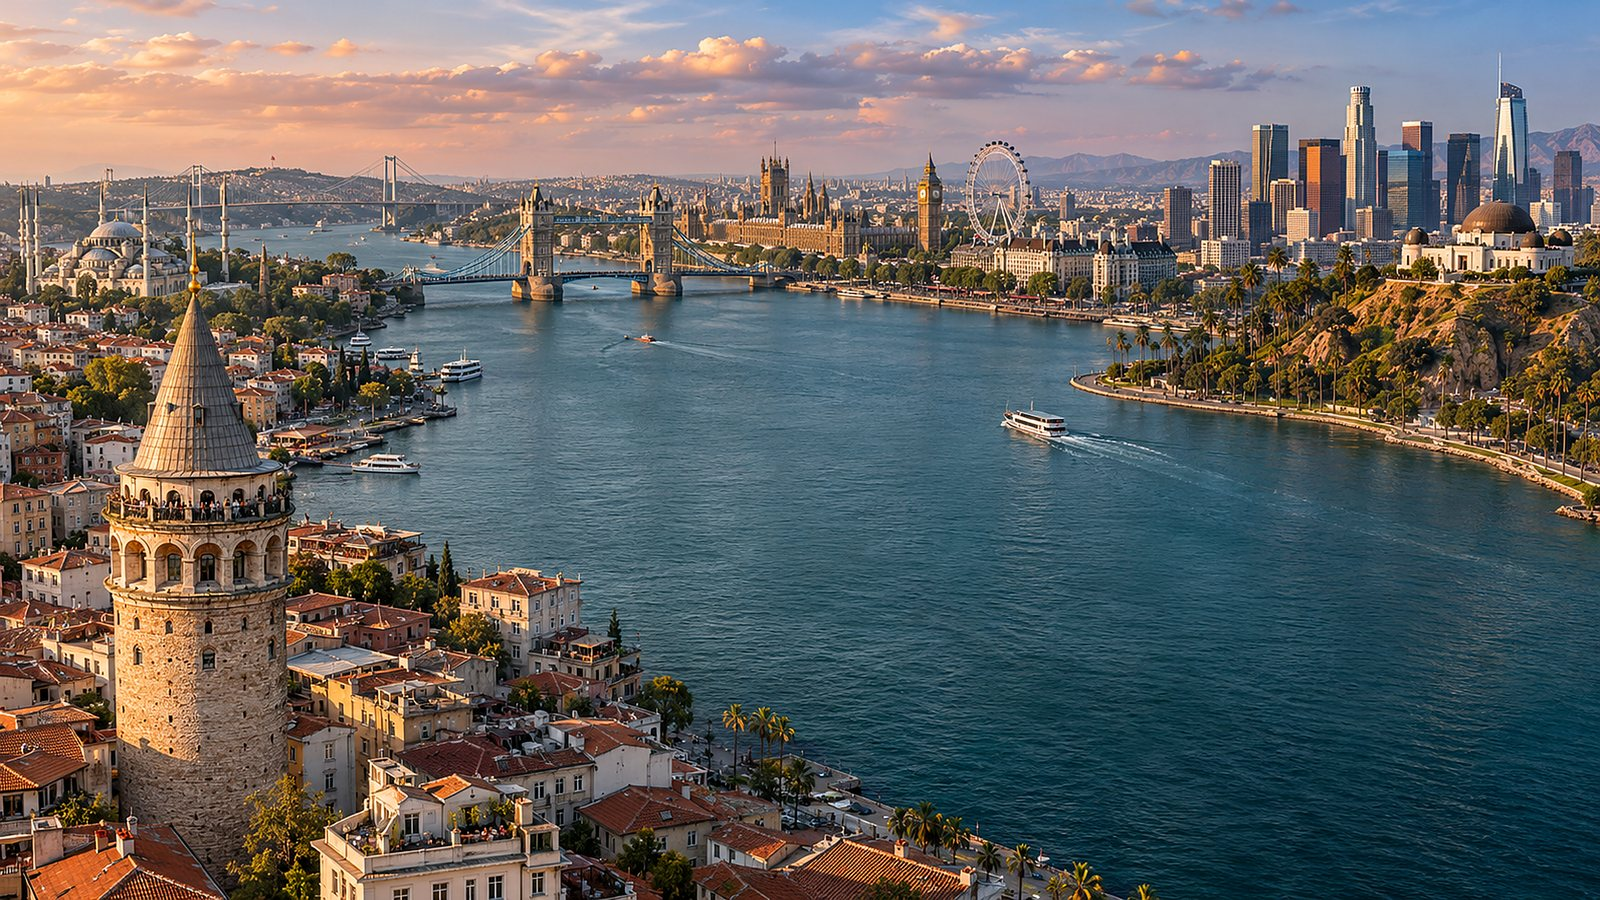
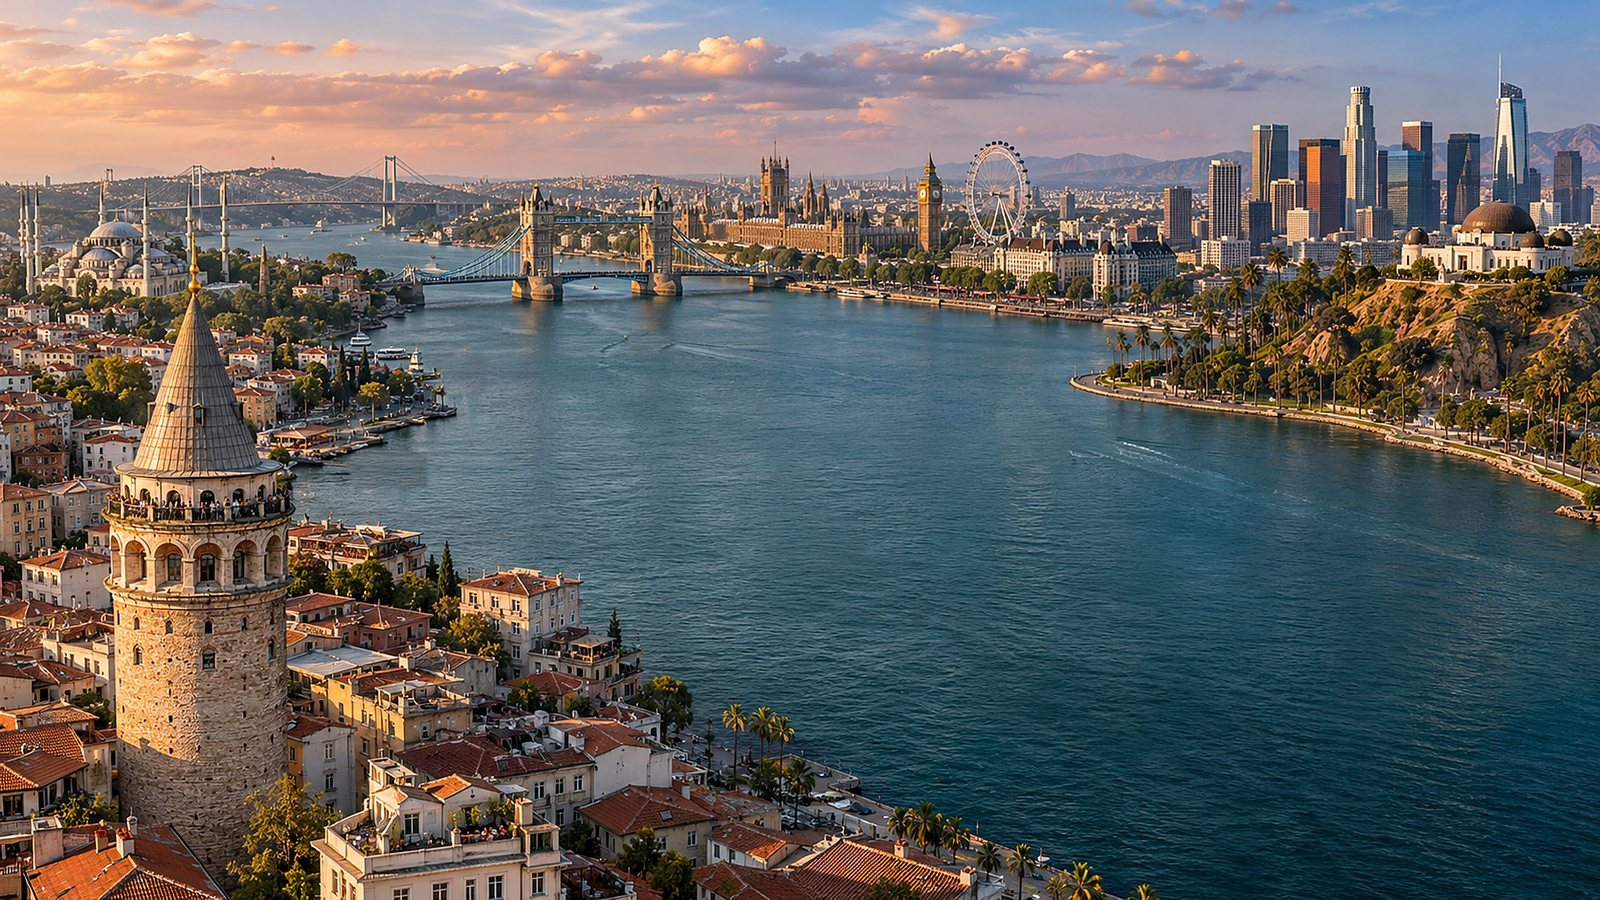
Ferries cruise slowly along the river (cut out with reflections, water filled in beneath)
Claude-Session: https://claude.ai/code/session_01WS1Ggxd3pVnHHNUyePA6WY

diff --git a/assets/home.js b/assets/home.js
@@ -135,6 +135,28 @@
     }
   ];
 
+  // ferries cut out of the photo; they cruise slowly along the river and loop
+  var BOATS = [{"src": "/assets/lm/boat-ferry.webp", "box": [1870, 740, 220, 139], "dx": -620, "dy": -150, "k": 0.62, "period": 75, "offset": 0.12}, {"src": "/assets/lm/boat-speed.webp", "box": [1173, 620, 94, 49], "dx": -300, "dy": -30, "k": 0.85, "period": 32, "offset": 0.45}, {"src": "/assets/lm/boat-ferry2.webp", "box": [828, 644, 91, 103], "dx": 480, "dy": 60, "k": 1.12, "period": 85, "offset": 0.25}, {"src": "/assets/lm/boat-ferry3.webp", "box": [656, 844, 151, 79], "dx": 520, "dy": 40, "k": 1.1, "period": 95, "offset": 0.6}];
+  var boatLayer = document.getElementById("boats");
+  function buildBoats() {
+    BOATS.forEach(function (b) { var i = new Image(); i.className = "boat"; i.alt = ""; i.src = b.src; boatLayer.appendChild(i); b.el = i; });
+    if (reduce) { BOATS.forEach(function (b) { b.p = 0; }); moveBoats(0); return; }
+    (function tick(now) { requestAnimationFrame(tick); if (!document.hidden) moveBoats(now / 1000); })(performance.now());
+  }
+  function moveBoats(t) {
+    var c = cover();
+    BOATS.forEach(function (b, n) {
+      var p = reduce ? 0 : ((t / b.period + b.offset) % 1);
+      var fade = reduce ? 1 : Math.min(1, p / 0.08, (1 - p) / 0.08);
+      var bob = reduce ? 0 : Math.sin(t * 1.3 + n * 2) * 0.6;
+      var x = c.ox + (b.box[0] + b.dx * p) * c.s, y = c.oy + (b.box[1] + b.dy * p) * c.s + bob;
+      var k = 1 + (b.k - 1) * p, st = b.el.style;
+      st.width = b.box[2] * c.s + "px"; st.height = b.box[3] * c.s + "px";
+      st.transform = "translate(" + x + "px," + y + "px) scale(" + k + ")";
+      st.opacity = fade;
+    });
+  }
+
   var layer = document.getElementById("landmarks");
   function cover() {
     var W = hero.clientWidth, H = hero.clientHeight, s = Math.max(W / IMG.w, H / IMG.h);
@@ -346,6 +368,7 @@
     }).catch(function () {});
   }
 
+  buildBoats();
   build();
   intro();
   river();

diff --git a/index.html b/index.html
@@ -125,6 +125,10 @@ a:focus-visible { outline: 2px solid var(--gold); outline-offset: 3px; }
 .bridge.open .tb-leaf-l { transform: rotate(-78deg); filter: drop-shadow(-3px 8px 6px rgba(0,0,0,0.45)); }
 .bridge.open .tb-leaf-r { transform: rotate(78deg); filter: drop-shadow(3px 8px 6px rgba(0,0,0,0.45)); }
 
+/* ferries */
+.boats { position: absolute; inset: 0; z-index: -2; pointer-events: none; overflow: hidden; }
+.boat { position: absolute; left: 0; top: 0; transform-origin: 50% 70%; will-change: transform, opacity; }
+
 /* camera dive into Galata */
 .scene { position: absolute; inset: 0; z-index: -1; will-change: transform; }
 .scene.through { transition: filter 0.6s ease, opacity 0.6s ease; filter: blur(6px) brightness(0.6); }
@@ -209,6 +213,7 @@ footer { font-size: 13px; color: var(--muted); }
   <img class="city" src="/assets/city.jpg" srcset="/assets/city-1600.jpg 1600w, /assets/city.jpg 3000w" sizes="100vw"
        alt="One imagined city at golden hour: Istanbul's Galata Tower, mosques and Bosphorus Bridge on the left, London's Tower Bridge, Big Ben and the London Eye in the middle, and Griffith Observatory and downtown Los Angeles on the right, around one wide river">
   <canvas class="river" id="river" aria-hidden="true"></canvas>
+  <div class="boats" id="boats" aria-hidden="true"></div>
   <div class="landmarks" id="landmarks"></div>
   </div>
 
@@ -287,6 +292,6 @@ footer { font-size: 13px; color: var(--muted); }
   <footer>Built with Claude. Hosted on GitHub Pages.</footer>
 </div>
 
-<script src="/assets/home.js?v=1795150709" defer></script>
+<script src="/assets/home.js?v=1795151382" defer></script>
 </body>
 </html>
